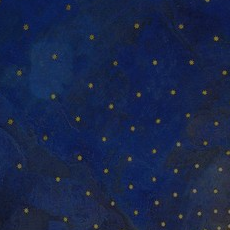
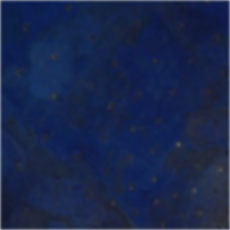
Coherence pass: starless plaster sky, finer dust, gradient-mapped planets
Addresses the visual-consistency problem — photographic planets clashing with
the painted, gilded world.

- Sky: the fresco plaster is now cropped, darkened, its gold stars painted out,
  and softened — a clean deep-ultramarine plaster texture with NO stars (the
  user wanted the texture and blue, not stars).
- Dust: rebuilt finer and more delicate — small gold motes on individual
  sinuous paths (per-particle phase) at low opacity, breathing rather than
  rotating as a block.
- Planets: a gradient-map (duotone) in CelestialBillboard recolours each photo
  into the antique palette by luminance — keeps the surface detail (bands,
  craters) but reads as an engraved/gilded plate, unifying them with the Sun and
  the painted sky. The gilded Sun is left untouched (uStylize 0).
- AtlasGrade: added a light deep-ultramarine veil for contrast.

Verified headlessly: cohesive composition, zero console errors.

Claude-Session: https://claude.ai/code/session_01PJWZfm6a6MaWkUzfYFpXVJ

diff --git a/src/three/universe/Dust.tsx b/src/three/universe/Dust.tsx
@@ -1,11 +1,12 @@
 "use client";
 
 /**
- * Dust — suspended motes in the foreground.
+ * Dust — suspended motes of gold light.
  *
- * A thin field of tiny soft points close to the camera that drift with an
- * extremely slow collective rotation, giving parallax and life without noise.
- * Count scales down from the star budget. Frozen under reduced motion.
+ * A fine, sparse field of very small points that drift organically: each mote
+ * follows its own slow sinuous path (a per-particle phase in the shader), so the
+ * field breathes rather than rotating as a rigid block. Kept faint and delicate
+ * — atmosphere, not snow. Still under reduced motion.
  */
 import { useMemo, useRef } from "react";
 import { useFrame } from "@react-three/fiber";
@@ -21,11 +22,21 @@ interface DustProps {
 
 const DUST_VERT = /* glsl */ `
   attribute float aSize;
+  attribute float aPhase;
   uniform float uPixelRatio;
+  uniform float uTime;
+  varying float vTw;
   void main() {
-    vec4 mv = modelViewMatrix * vec4(position, 1.0);
+    // Gentle, per-mote sinuous drift.
+    vec3 p = position;
+    float t = uTime * 0.15 + aPhase;
+    p.x += sin(t) * 0.6;
+    p.y += cos(t * 0.8) * 0.5;
+    p.z += sin(t * 0.6) * 0.4;
+    vTw = 0.55 + 0.45 * sin(uTime * 0.9 + aPhase);
+    vec4 mv = modelViewMatrix * vec4(p, 1.0);
     gl_Position = projectionMatrix * mv;
-    gl_PointSize = aSize * uPixelRatio * (200.0 / -mv.z);
+    gl_PointSize = aSize * uPixelRatio * (140.0 / -mv.z);
   }
 `;
 
@@ -33,61 +44,64 @@ const DUST_FRAG = /* glsl */ `
   precision mediump float;
   uniform vec3 uColor;
   uniform float uOpacity;
+  varying float vTw;
   void main() {
     float d = length(gl_PointCoord - 0.5);
     if (d > 0.5) discard;
-    float a = smoothstep(0.5, 0.0, d) * uOpacity;
+    float a = smoothstep(0.5, 0.0, d) * uOpacity * vTw;
     gl_FragColor = vec4(uColor, a);
   }
 `;
 
 export function Dust({ count, pixelRatio, reducedMotion }: DustProps) {
-  const groupRef = useRef<THREE.Group>(null);
+  const matRef = useRef<THREE.ShaderMaterial>(null);
 
   const geometry = useMemo(() => {
     const rng = new SeededRandom(SEEDS.dust);
-    const n = Math.floor(count * 0.4);
+    const n = Math.floor(count * 0.5);
     const positions = new Float32Array(n * 3);
     const sizes = new Float32Array(n);
+    const phases = new Float32Array(n);
     for (let i = 0; i < n; i++) {
-      positions[i * 3] = rng.signed(18);
-      positions[i * 3 + 1] = rng.signed(12);
-      positions[i * 3 + 2] = rng.range(-8, 10);
-      sizes[i] = rng.range(0.4, 1.4);
+      positions[i * 3] = rng.signed(24);
+      positions[i * 3 + 1] = rng.signed(16);
+      positions[i * 3 + 2] = rng.range(-10, 14);
+      sizes[i] = rng.range(0.15, 0.55);
+      phases[i] = rng.range(0, Math.PI * 2);
     }
     const geo = new THREE.BufferGeometry();
     geo.setAttribute("position", new THREE.BufferAttribute(positions, 3));
     geo.setAttribute("aSize", new THREE.BufferAttribute(sizes, 1));
+    geo.setAttribute("aPhase", new THREE.BufferAttribute(phases, 1));
     return geo;
   }, [count]);
 
   const uniforms = useMemo(
     () => ({
       uPixelRatio: { value: pixelRatio },
-      uColor: { value: new THREE.Color(palette.ivoryDim) },
-      uOpacity: { value: 0.35 },
+      uColor: { value: new THREE.Color(palette.goldBright) },
+      uOpacity: { value: 0.16 },
+      uTime: { value: 0 },
     }),
     [pixelRatio],
   );
 
   useFrame((_, delta) => {
-    if (reducedMotion || !groupRef.current) return;
-    groupRef.current.rotation.y += delta * 0.012;
-    groupRef.current.rotation.x += delta * 0.005;
+    if (reducedMotion || !matRef.current) return;
+    matRef.current.uniforms.uTime.value += delta;
   });
 
   return (
-    <group ref={groupRef}>
-      <points geometry={geometry}>
-        <shaderMaterial
-          uniforms={uniforms}
-          vertexShader={DUST_VERT}
-          fragmentShader={DUST_FRAG}
-          transparent
-          depthWrite={false}
-          blending={THREE.AdditiveBlending}
-        />
-      </points>
-    </group>
+    <points geometry={geometry}>
+      <shaderMaterial
+        ref={matRef}
+        uniforms={uniforms}
+        vertexShader={DUST_VERT}
+        fragmentShader={DUST_FRAG}
+        transparent
+        depthWrite={false}
+        blending={THREE.AdditiveBlending}
+      />
+    </points>
   );
 }

diff --git a/src/three/planets/CelestialBillboard.tsx b/src/three/planets/CelestialBillboard.tsx
@@ -15,6 +15,7 @@ import { useFrame } from "@react-three/fiber";
 import { Billboard, Html } from "@react-three/drei";
 import * as THREE from "three";
 import type { PlanetConfig } from "@/config/planets";
+import { palette } from "@/config/colors";
 import { svgTexture } from "@/three/lib/svgTexture";
 import { registerPlanet, unregisterPlanet } from "@/state/atlasStore";
 import { setHovering } from "@/state/cursorStore";
@@ -43,7 +44,11 @@ const FRAG = /* glsl */ `
   precision mediump float;
   varying vec2 vUv;
   uniform sampler2D uMap;
-  uniform float uRatio; // imgHeight / imgWidth
+  uniform float uRatio;   // imgHeight / imgWidth
+  uniform vec3 uShadow;   // gradient-map dark tone (shared, painterly)
+  uniform vec3 uMid;      // planet's signature mid tone
+  uniform vec3 uHi;       // gilded highlight
+  uniform float uStylize; // 0 = photo, 1 = full antique duotone
   void main() {
     vec2 p = vUv - 0.5;
     p.y *= uRatio;
@@ -55,7 +60,13 @@ const FRAG = /* glsl */ `
     float chroma = mx - mn;
     float keyMask = smoothstep(0.04, 0.10, chroma);
 
-    gl_FragColor = vec4(tex.rgb, tex.a * circle * keyMask);
+    // Gradient map: keep the photo's luminance detail, recolour into the
+    // antique palette so the planet reads as an engraved plate, not a photo.
+    float l = dot(tex.rgb, vec3(0.299, 0.587, 0.114));
+    vec3 grad = l < 0.5 ? mix(uShadow, uMid, l * 2.0) : mix(uMid, uHi, (l - 0.5) * 2.0);
+    vec3 col = mix(tex.rgb, grad, uStylize);
+
+    gl_FragColor = vec4(col, tex.a * circle * keyMask);
   }
 `;
 
@@ -82,8 +93,17 @@ export function CelestialBillboard({ config, active, reducedMotion, paused, onHo
   }, [config.colorGlow]);
 
   const uniforms = useMemo(
-    () => ({ uMap: { value: texture }, uRatio: { value: ratio } }),
-    [texture, ratio],
+    () => ({
+      uMap: { value: texture },
+      uRatio: { value: ratio },
+      // Shared painterly shadow; per-planet mid; gilded highlight.
+      uShadow: { value: new THREE.Color("#0e1a40") },
+      uMid: { value: new THREE.Color(config.colorCore) },
+      uHi: { value: new THREE.Color(config.colorGlow).lerp(new THREE.Color(palette.ivory), 0.5) },
+      // The gilded Sun already fits; only recolour the planets.
+      uStylize: { value: config.isCenter ? 0 : 0.82 },
+    }),
+    [texture, ratio, config.colorCore, config.colorGlow, config.isCenter],
   );
   uniforms.uRatio.value = ratio;
 
